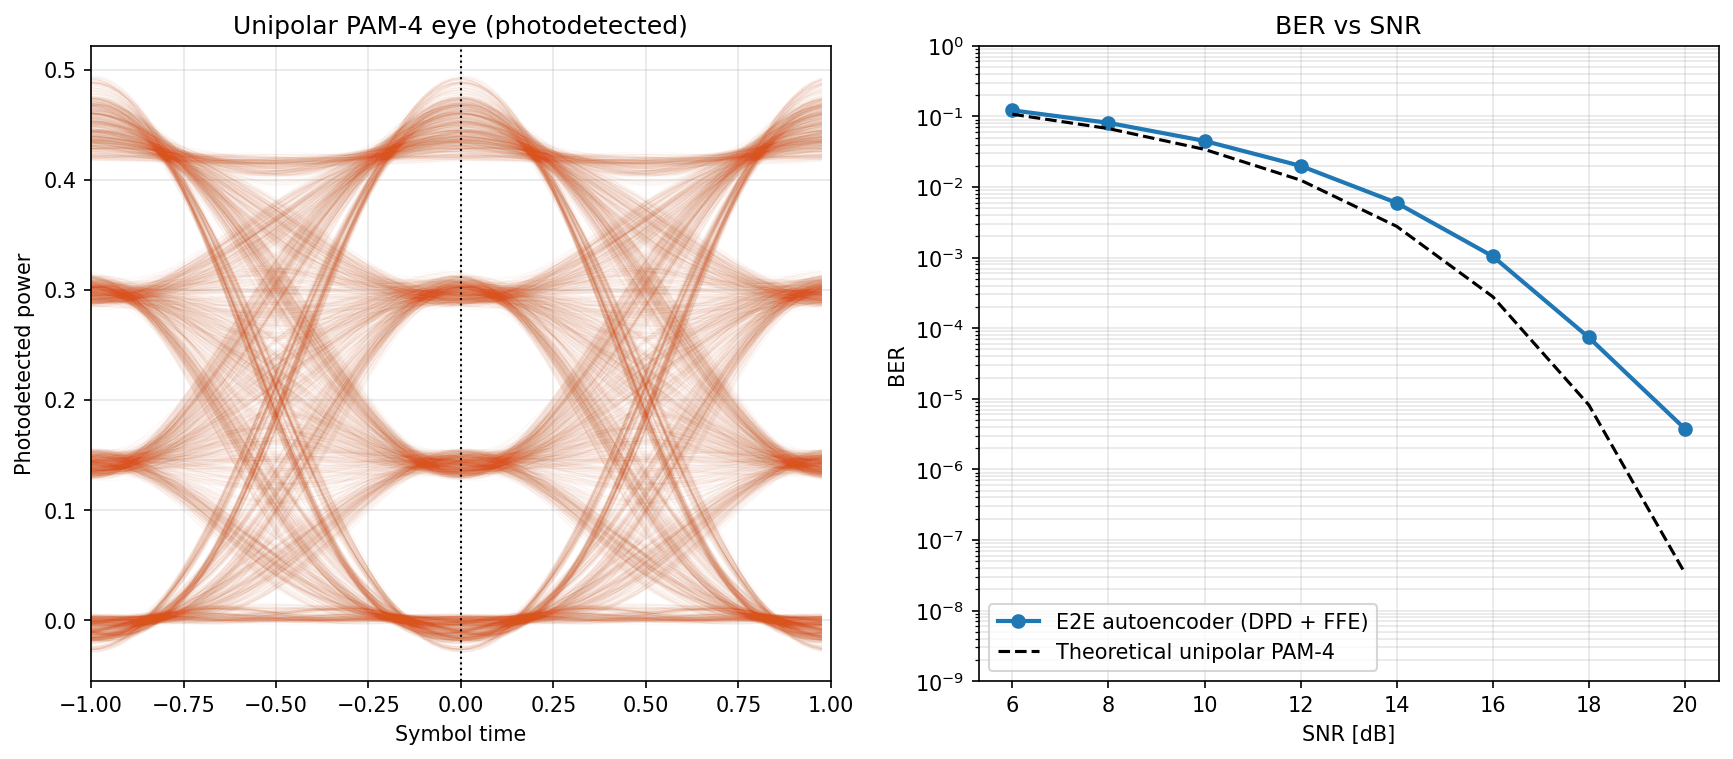
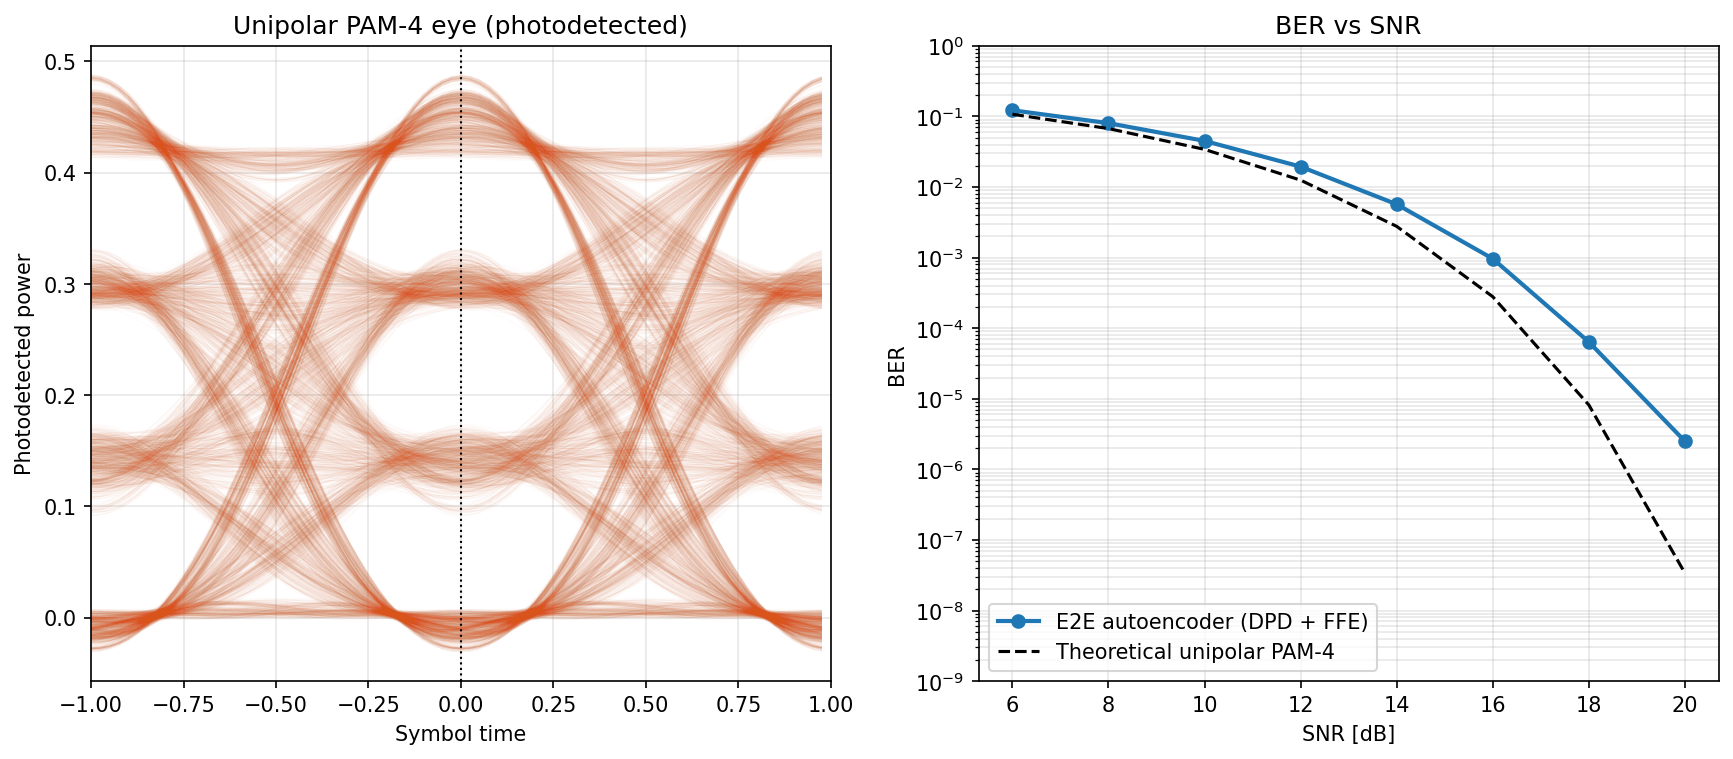
shrink hidden_width 16 -> 8 (-50% params, identical BER), bump training to 10000 steps

diff --git a/config.py b/config.py
@@ -43,7 +43,7 @@ class Config:
 
         # ----- DPD (transmitter DSP), Fork A: symbol-rate predistortion with memory -----
         self.dpd_memory_symbols = 5             # context window (temporal memory of predistortion)
-        self.dpd_hidden_width = 16              # leaky-ReLU hidden layer width
+        self.dpd_hidden_width = 8               # leaky-ReLU hidden layer width
         self.drive_min_volt = 0.0               # DPD output range: lower bound
         self.drive_max_volt = 5.0               # upper bound = Vpi -> monotonic half of MZM transfer,
                                                 # init (tanh=0) lands at quadrature (max slope, good gradient)
@@ -52,7 +52,7 @@ class Config:
 
         # ----- FFE (receiver DSP) -----
         self.ffe_memory_symbols = 11            # context window at the decision (odd -> centered)
-        self.ffe_hidden_width = 16
+        self.ffe_hidden_width = 8
 
         # ----- training -----
         self.num_symbols_train = 200_000        # long sequence (no tiny blocks; edges discarded)

diff --git a/main.py b/main.py
@@ -48,7 +48,7 @@ def main():
     torch.manual_seed(0)
     np.random.seed(0)
 
-    transmitter, channel, receiver = train(config, device, num_steps=7000)
+    transmitter, channel, receiver = train(config, device, num_steps=10000)
     sps = config.samples_per_symbol_sim
 
     # ----- eye + levels -----
